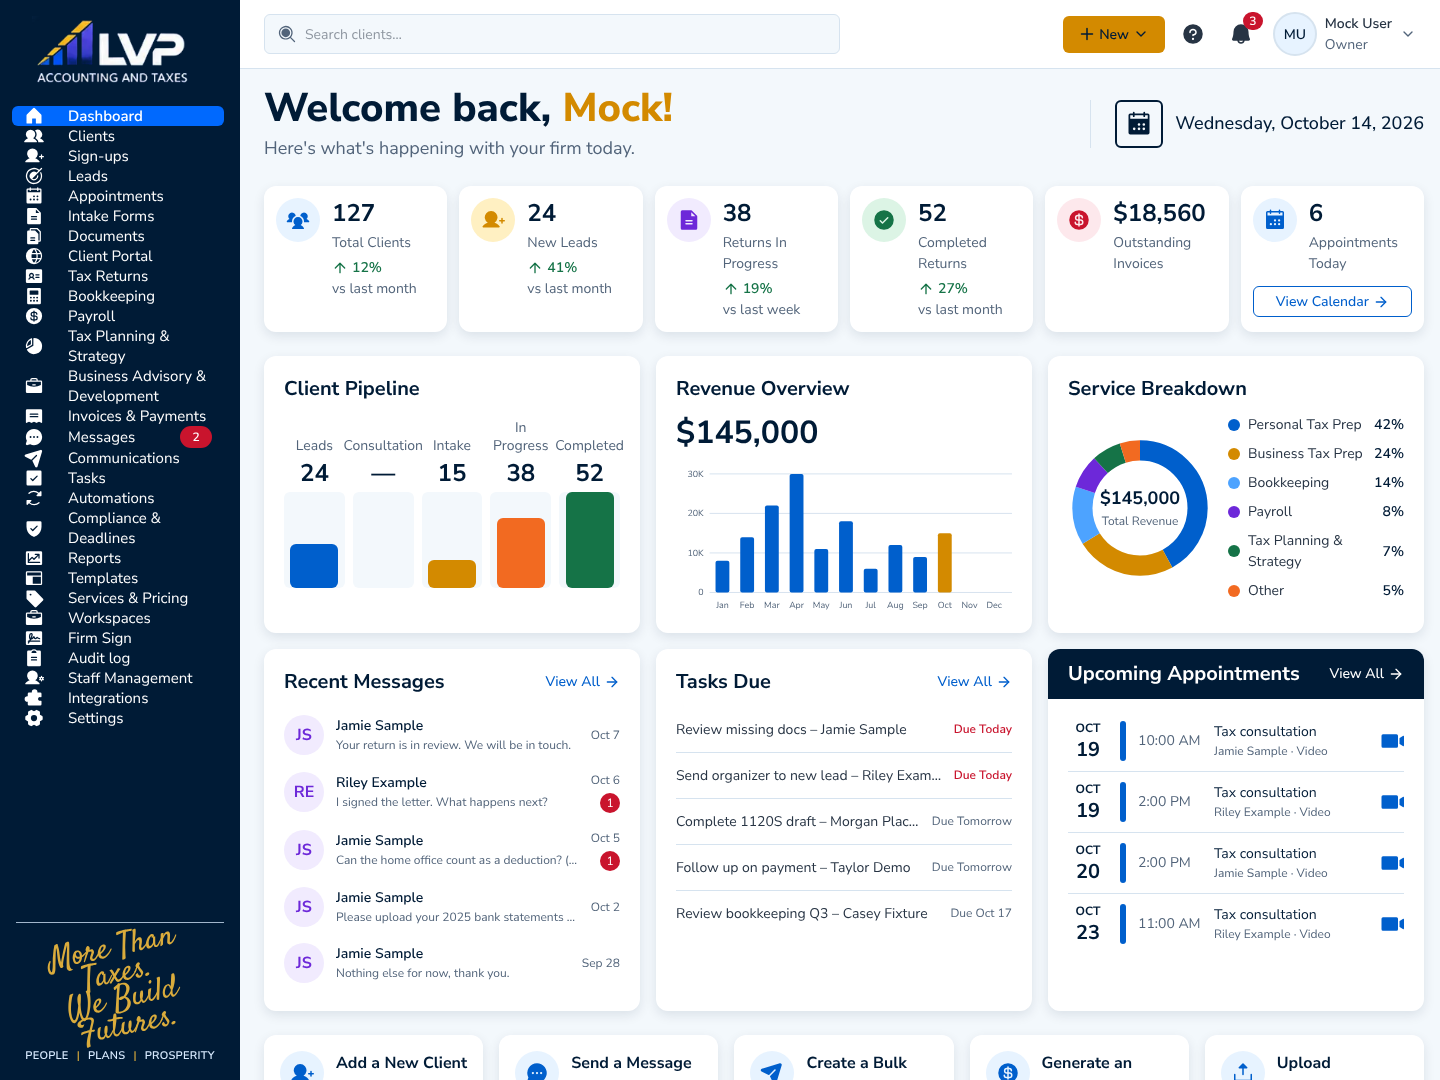
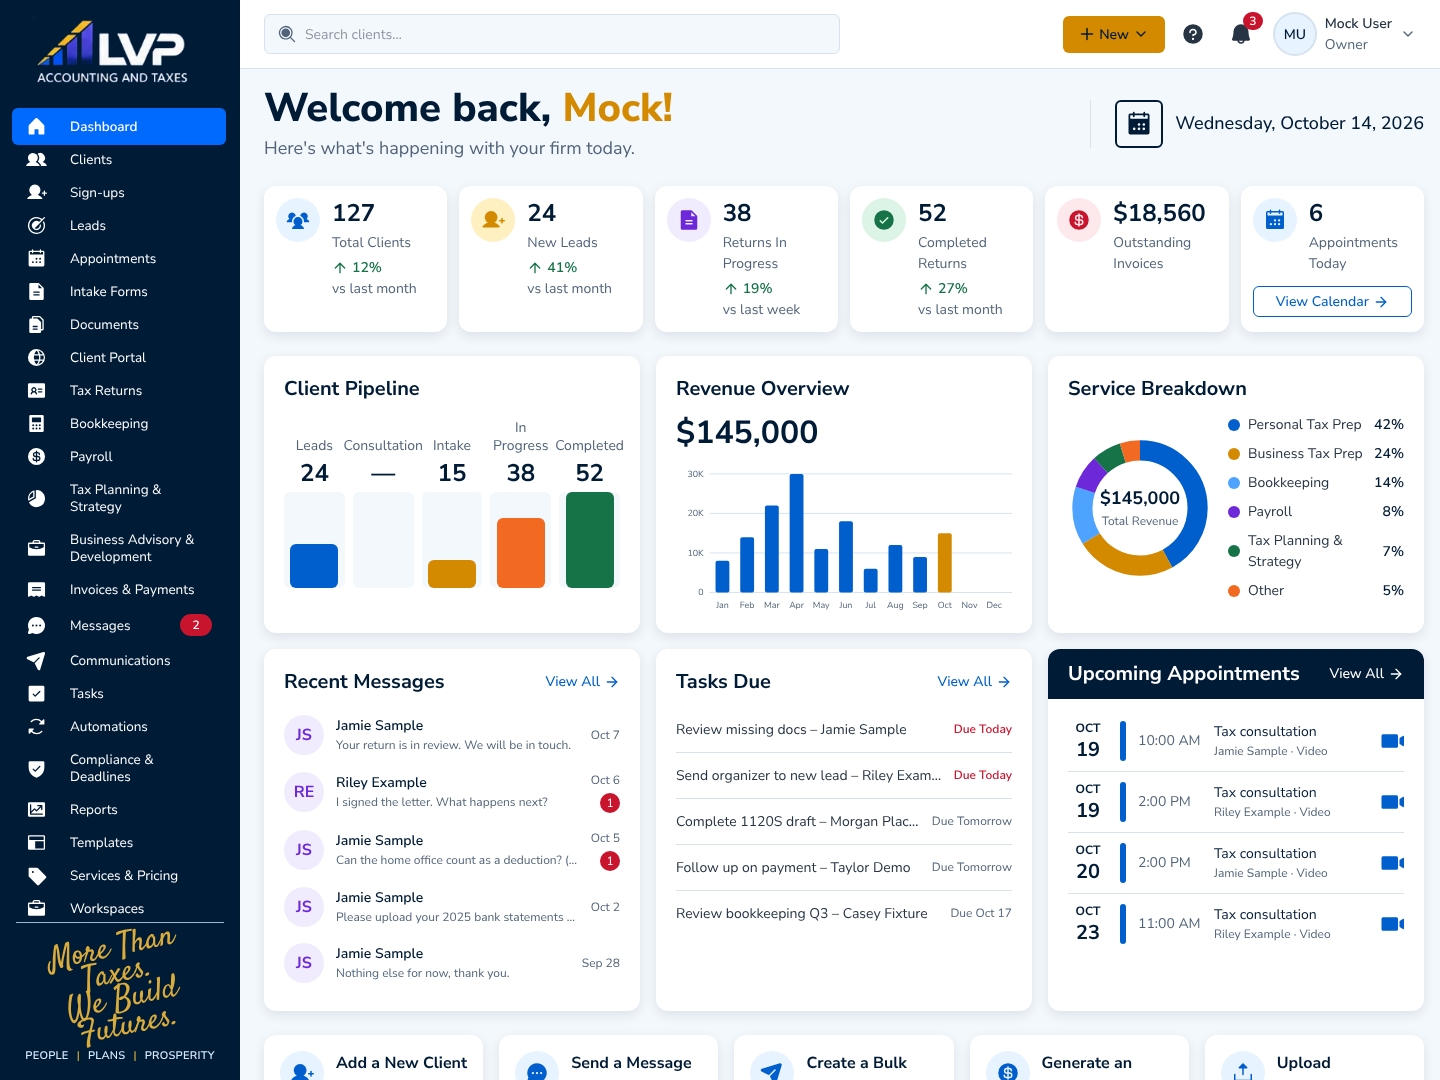
fix: sidebar rows at the design's pitch, padding and text size (R33)
Rows are 33 px apart with a 37 px pill, 14 px inner padding, a 23 px
icon-to-text gap and 13.5 px text, measured from the dashboard design. The
menu scrolls inside when the window is too short; the logo and the slogan
block stay in place.

Changed region(s): [[0.0, 0.0917, 0.1562, 0.8556], [0.0625, 0.7639, 0.125, 0.8556]]

diff --git a/apps/web/src/components/app-shell/sidebar.tsx b/apps/web/src/components/app-shell/sidebar.tsx
@@ -51,7 +51,7 @@ export function Sidebar({
       className={`flex h-full flex-col bg-brand-900 text-white ${brand ? 'w-60' : 'w-72'}`}
     >
       {brand ? (
-        <div className="px-8 pb-5 pt-4">
+        <div className="shrink-0 px-8 pb-5 pt-4">
           <span
             data-testid="firm-name"
             className={brand.logoUrl ? 'sr-only' : 'block text-xl font-semibold'}
@@ -87,7 +87,7 @@ export function Sidebar({
 
       <div
         data-testid="sidebar-menu"
-        className="flex min-h-0 flex-1 flex-col gap-2 overflow-y-auto"
+        className={`flex min-h-0 flex-1 flex-col gap-2 overflow-y-auto ${brand ? 'py-1' : ''}`}
       >
         {sections.map((items, i) => (
           <ul
@@ -98,7 +98,10 @@ export function Sidebar({
               const Icon = item.icon;
               const body = (
                 <>
-                  <Icon aria-hidden className={`shrink-0 ${brand ? 'size-5' : 'size-6'}`} />
+                  <Icon
+                    aria-hidden
+                    className={`shrink-0 ${brand ? 'size-[21px] -my-0.5' : 'size-6'}`}
+                  />
                   <span className={`min-w-0 flex-1 ${brand ? '' : 'whitespace-nowrap'}`}>
                     {item.label}
                   </span>
@@ -116,17 +119,21 @@ export function Sidebar({
                   ) : null}
                 </>
               );
-              const row = `flex items-center ${brand ? 'gap-6 px-3 py-0 text-[15px] leading-5' : 'gap-2.5 px-6 py-3 text-base'}`;
+              const row = `flex items-center ${brand ? 'gap-5.75 px-3.5 py-2.5 text-[13.5px] leading-[17px]' : 'gap-2.5 px-6 py-3 text-base'}`;
               if (!item.href) {
                 return (
-                  <li key={item.label} aria-disabled="true" className={`${row} text-brand-100`}>
+                  <li
+                    key={item.label}
+                    aria-disabled="true"
+                    className={`${row} text-brand-100 ${brand ? '-my-0.5' : ''}`}
+                  >
                     {body}
                   </li>
                 );
               }
               const active = isActive(pathname, item.href);
               return (
-                <li key={item.label}>
+                <li key={item.label} className={brand ? '-my-0.5' : undefined}>
                   <Link
                     href={item.href}
                     onClick={onNavigate}
@@ -134,7 +141,7 @@ export function Sidebar({
                     className={
                       row +
                       (brand
-                        ? ' ml-3 mr-4 rounded-control ' +
+                        ? ' ml-3 mr-3.5 rounded-control ' +
                           (active ? 'bg-nav-active font-semibold' : 'hover:bg-navigation-hover')
                         : ' mr-3 rounded-r-control border-l-4 ' +
                           (active
@@ -153,7 +160,7 @@ export function Sidebar({
 
       {brand ? (
         brand.slogan || brand.motto ? (
-          <div className="mx-4 flex flex-col items-center gap-2 border-t border-brand-100/75 pb-4 pt-3">
+          <div className="mx-4 flex shrink-0 flex-col items-center gap-2 border-t border-brand-100/75 pb-4 pt-3">
             {brand.slogan ? (
               <p
                 data-testid="firm-slogan"

diff --git a/apps/web/e2e/mock/r28-logo.spec.ts b/apps/web/e2e/mock/r28-logo.spec.ts
@@ -62,16 +62,35 @@ test('the shell shows the dark logo, the slogan and motto, and the light logo in
   await page.setViewportSize({ width: 1440, height: 900 });
   await page.goto(app('/'));
   const sidebar = page.getByRole('navigation', { name: 'Main' });
+  expect((await sidebar.boundingBox())?.width).toBe(240);
   const logo = sidebar.locator('img');
   await expect(logo).toBeVisible();
   const box = await logo.boundingBox();
   expect(box?.height).toBe(70);
   expect(box?.width).toBeGreaterThan(150);
-  await expect(page.getByTestId('firm-slogan')).toContainText('More Than');
+  const slogan = page.getByTestId('firm-slogan');
+  await expect(slogan).toContainText('More Than');
   await expect(page.getByTestId('firm-motto')).toHaveText('PEOPLE|PLANS|PROSPERITY');
-  // At 900 px high every item fits: the menu does not scroll.
+
+  // The design's rows: a 37 px pill every 33 px, whatever the window height.
+  const links = sidebar.getByTestId('sidebar-menu').getByRole('link');
+  const first = await links.nth(0).boundingBox();
+  const second = await links.nth(1).boundingBox();
+  const third = await links.nth(2).boundingBox();
+  expect(first?.height).toBe(37);
+  expect((third?.y ?? 0) - (second?.y ?? 0)).toBe(33);
+  expect((second?.y ?? 0) - (first?.y ?? 0)).toBe(33);
+
+  // A short window scrolls the menu inside; the logo and the slogan block stay in place.
   const menu = page.getByTestId('sidebar-menu');
-  expect(await menu.evaluate((el) => el.scrollHeight <= el.clientHeight)).toBe(true);
+  expect(await menu.evaluate((el) => el.scrollHeight > el.clientHeight)).toBe(true);
+  const slogan0 = await slogan.boundingBox();
+  await menu.evaluate((el) => el.scrollTo(0, el.scrollHeight));
+  expect(await logo.boundingBox()).toEqual(box);
+  expect(await slogan.boundingBox()).toEqual(slogan0);
+  expect((slogan0?.y ?? 0) + (slogan0?.height ?? 0)).toBeLessThanOrEqual(900);
+  await expect(links.last()).toBeInViewport();
+
   const footer = page.getByRole('contentinfo');
   await expect(footer.getByRole('img', { name: 'LVP Accounting & Taxes' })).toBeVisible();
   await expect(footer.getByRole('link')).toHaveText(['Support']);
